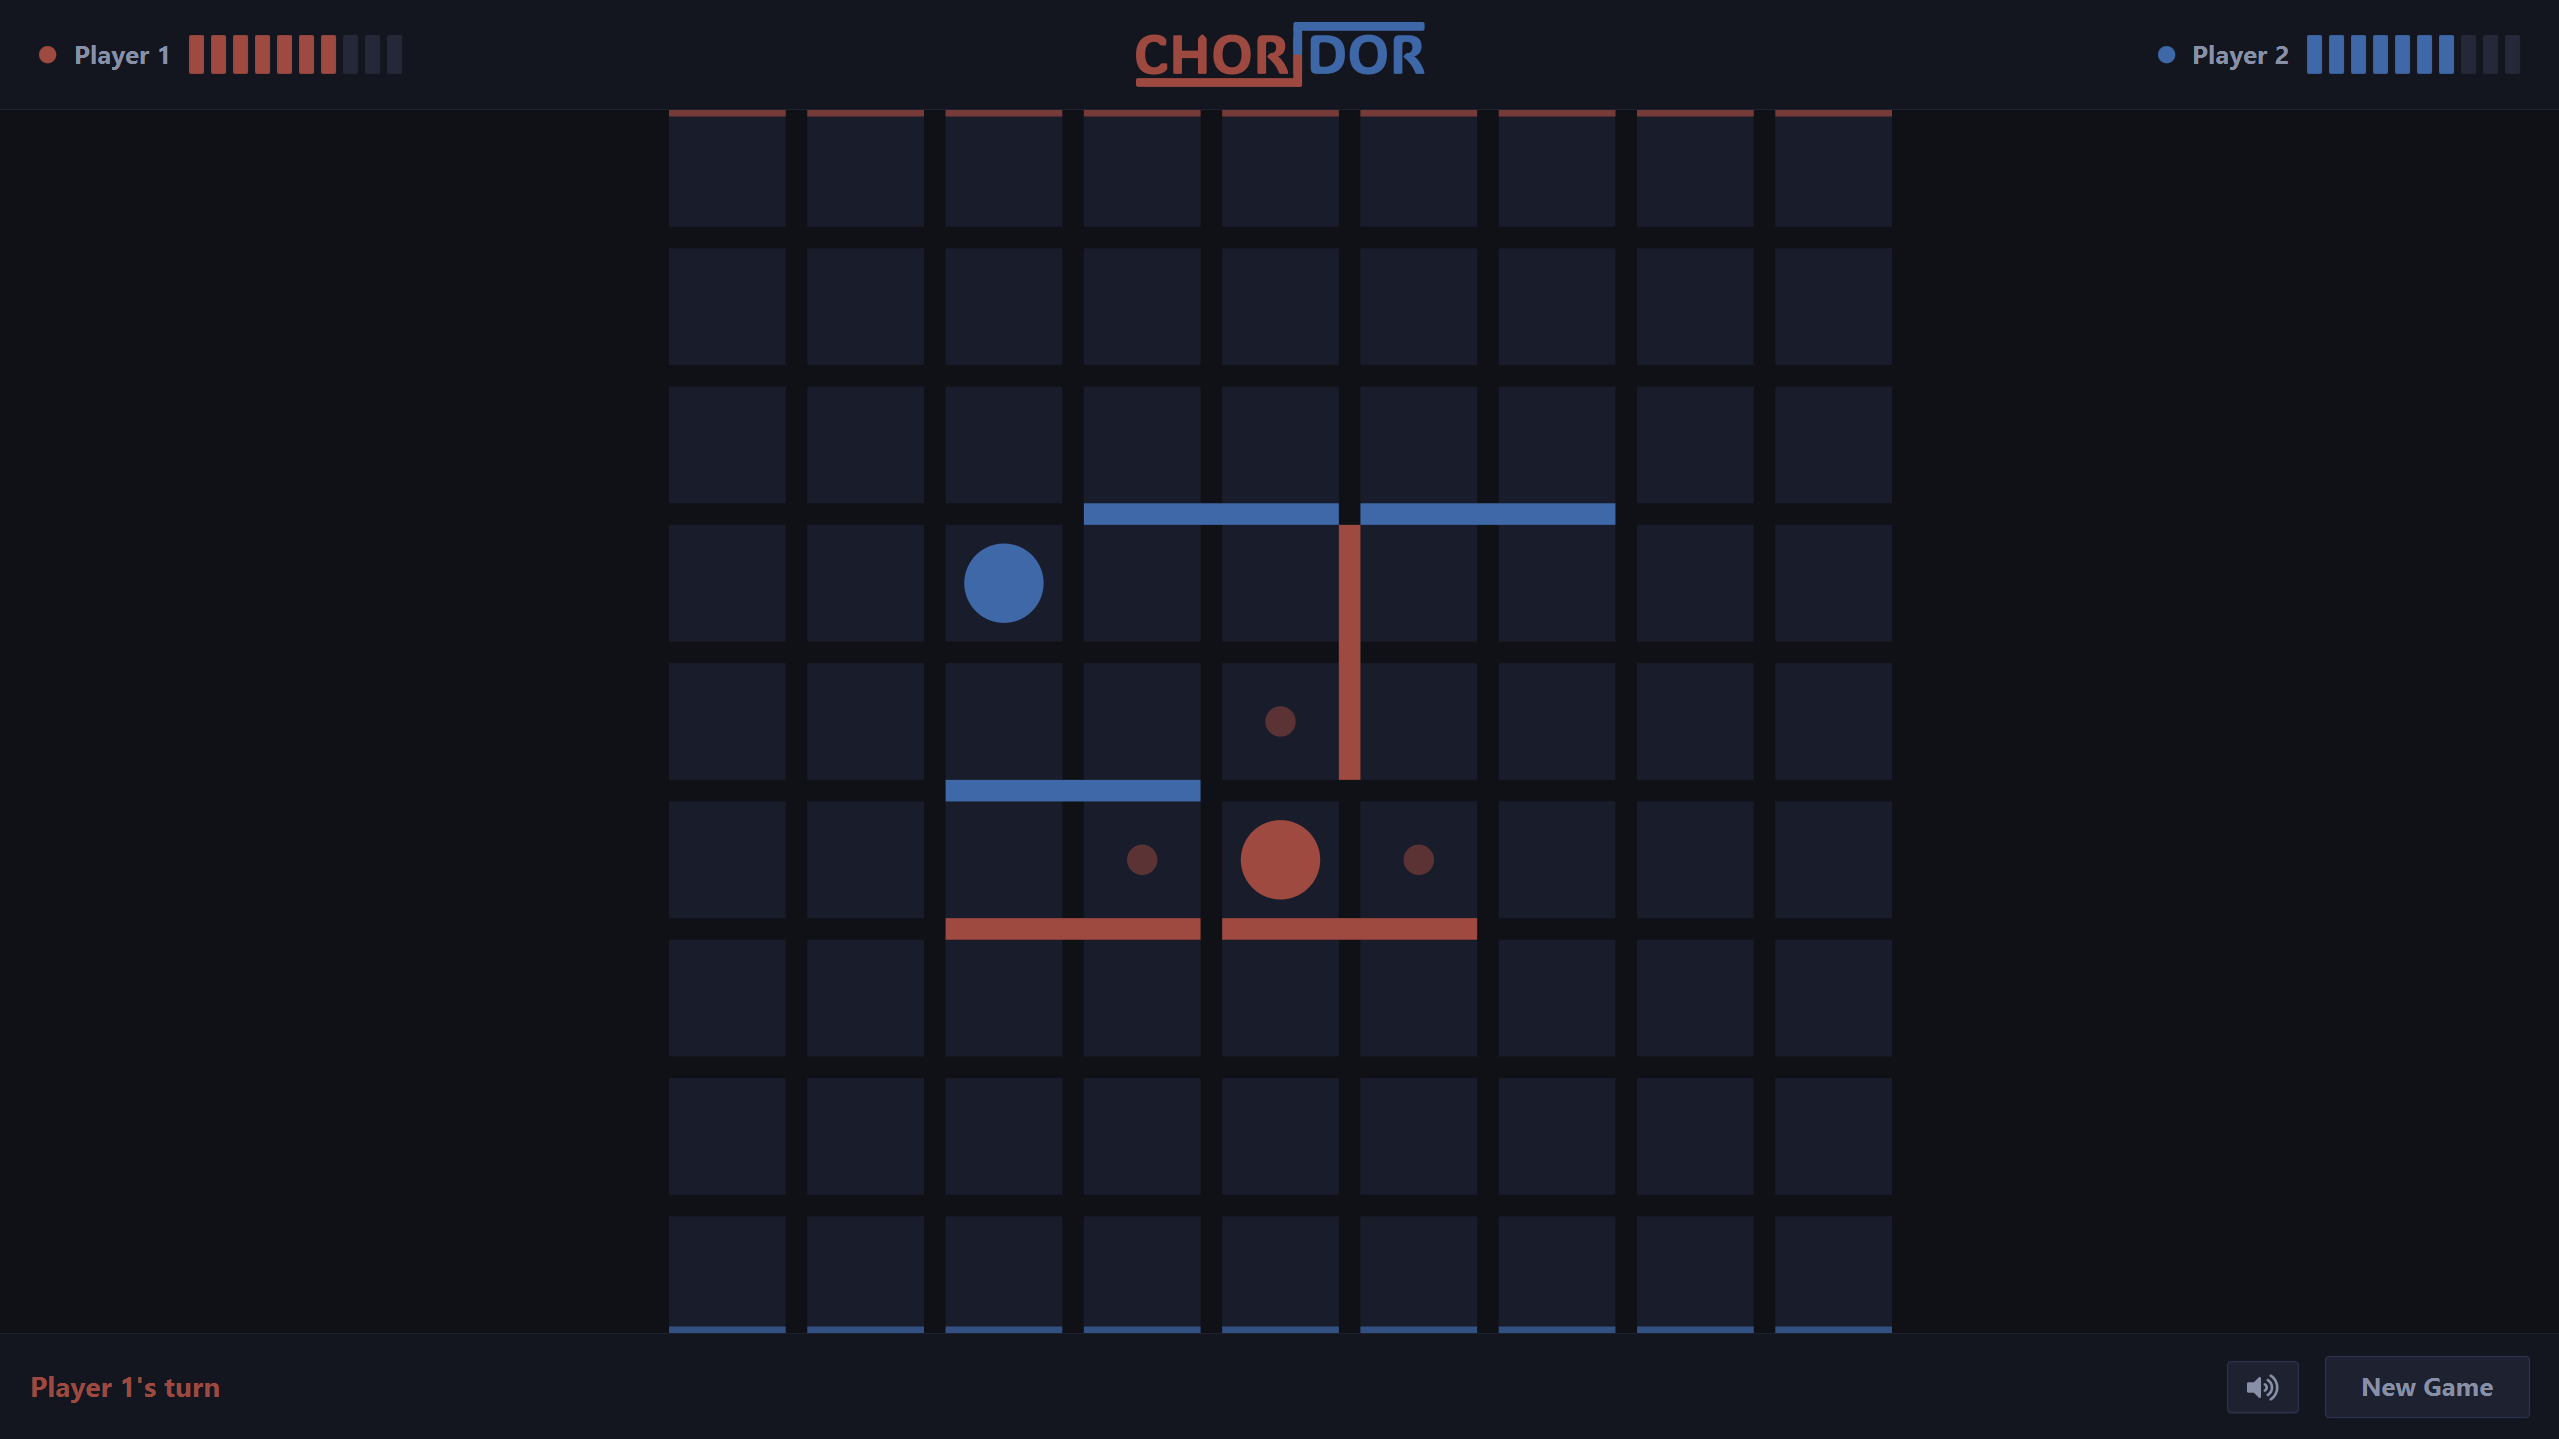
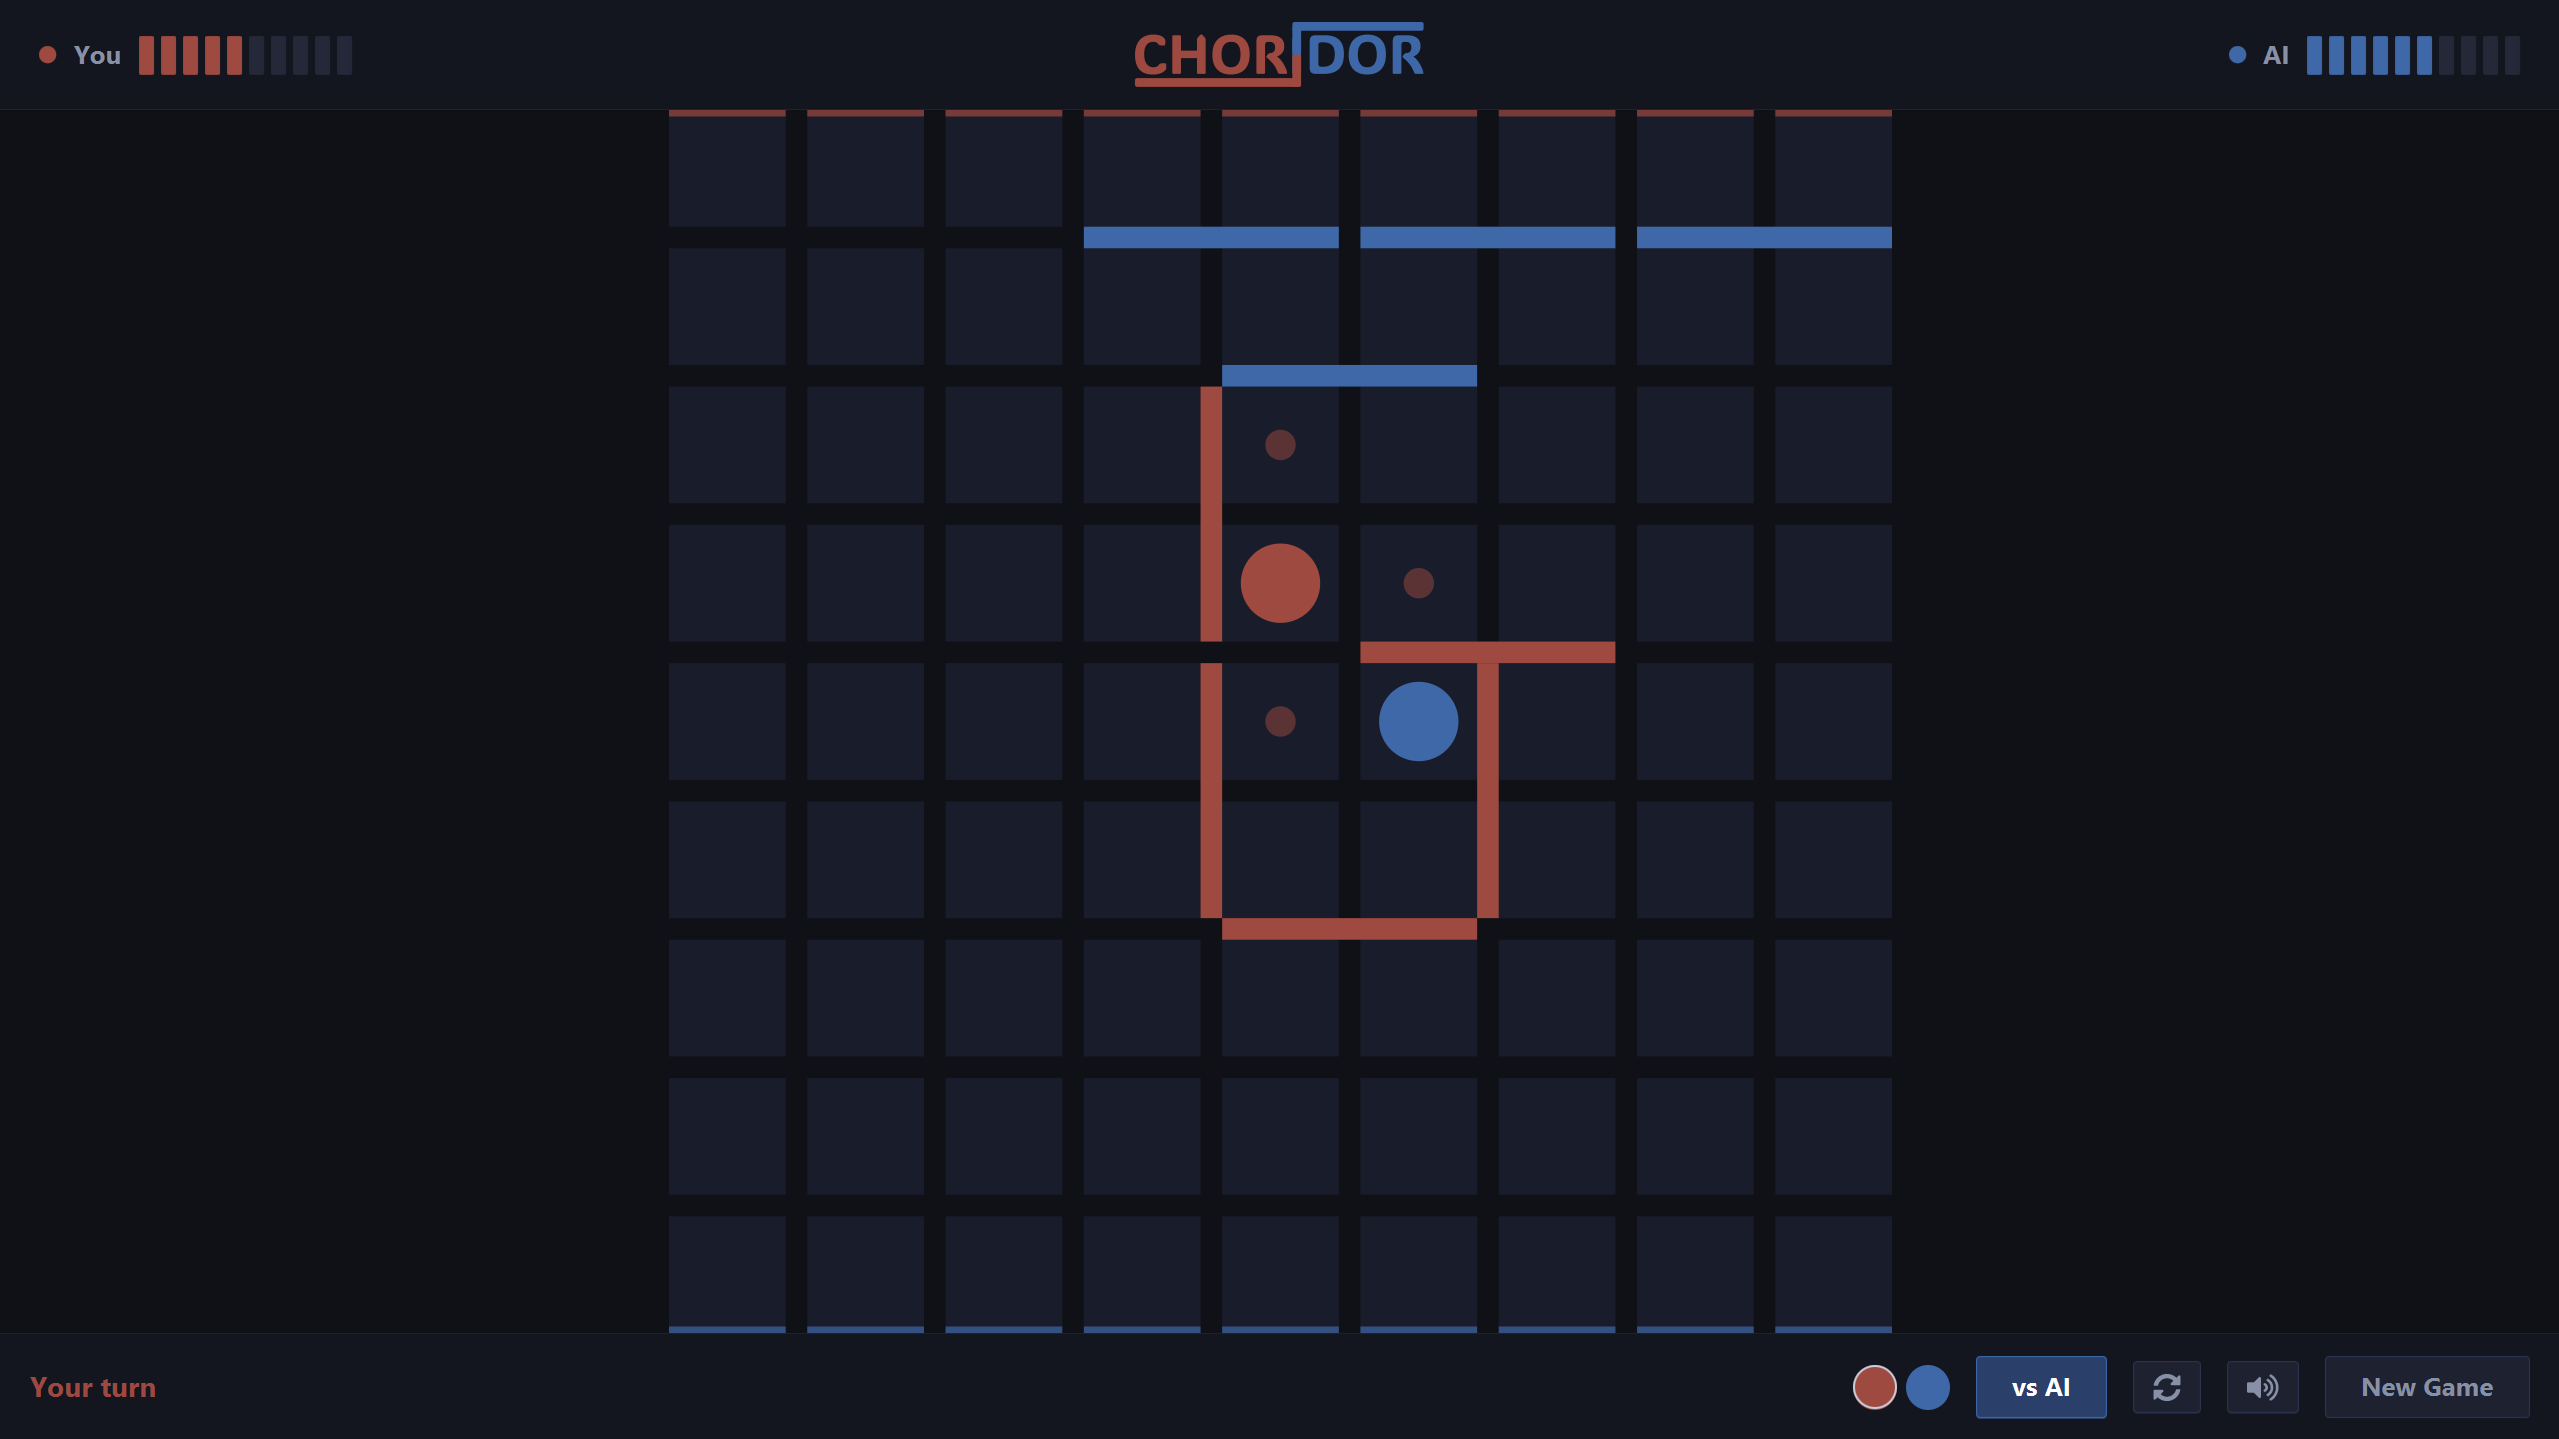
chore: Updated README

diff --git a/README.md b/README.md
@@ -41,11 +41,12 @@ A personal project built to explore:
 
 ## Core Features
 
-- Full Quoridor rules — pawn moves with jump logic, wall placement with path-check enforcement
+- Pawn moves with jump logic, wall placement with path-check enforcement
 - Human vs Human local play
+- Human VS AI
 - Dark-slate themed board with legal-move dot indicators and hover-preview for walls
-- Player-coloured walls with per-player wall-count display
-- Win overlay and turn indicator
+- Changing sides, flipping boards, and win overlay
+- Sound Effects for moves, jumps, wall placements, wins, and more
 - Cross-platform packaging (Windows EXE, Linux zip, macOS DMG, portable JAR)
 
 ## Tech Stack
